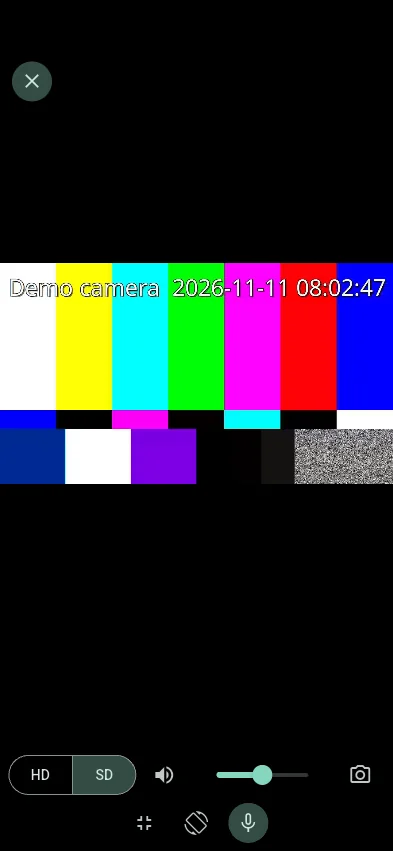
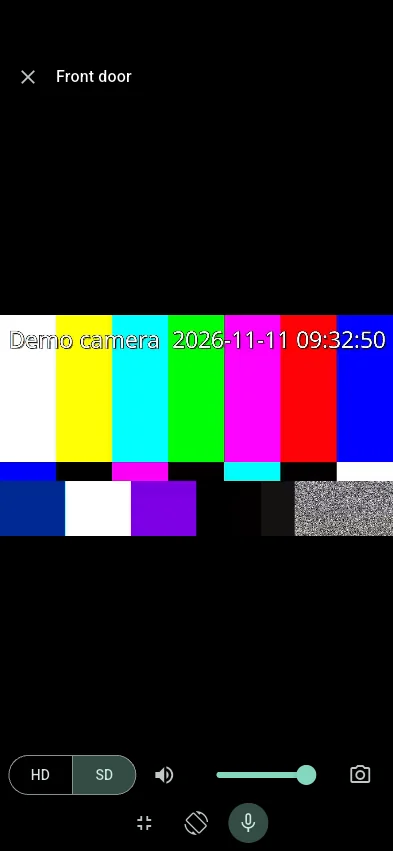
Louder audio (up to 5x), one-press rotate, full-screen controls over the video
- Volume: the slider shows 0-100%; 100% is a 5x gain on the incoming
  camera audio (WebRTC track gain / libmdk), the default, so quiet camera
  mics are as loud as other camera apps. Grid tiles use the same level.
  Saved levels use a new key, so everyone starts at the new default.
- Rotate: a tap always turns the screen to the other orientation (the old
  auto/landscape/portrait cycle had steps that changed nothing, so it
  seemed to need two presses); long-press returns to auto-rotate.
  Verified by driving the installed app on the Android 16 emulator.
- Full screen: the top bar (close, camera name) and the control bar float
  over the video on soft gradients and fade in/out; the picture no longer
  shrinks and grows. Controls stay up while touched.
- Version 0.3.6.

diff --git a/lib/features/live_view/live_view_screen.dart b/lib/features/live_view/live_view_screen.dart
@@ -10,7 +10,6 @@ import 'package:camstation/features/live_view/player_status_overlay.dart';
 import 'package:camstation/features/live_view/thumbnails.dart';
 import 'package:camstation/media/camera_player.dart';
 import 'package:camstation/media/talk_session.dart';
-import 'package:camstation/media/webrtc_player.dart';
 import 'package:flutter/material.dart';
 import 'package:flutter/services.dart';
 import 'package:flutter_riverpod/flutter_riverpod.dart';
@@ -321,11 +320,27 @@ class _LiveViewScreenState extends ConsumerState<LiveViewScreen> {
     });
   }
 
-  Future<void> _cycleOrientation() async {
-    final next = ViewOrientation
-        .values[(_orientation.index + 1) % ViewOrientation.values.length];
-    setState(() => _orientation = next);
-    _remember((v) => v.copyWith(orientation: next));
+  /// Tap: turn the screen to the other orientation (and keep it there).
+  /// Always visibly does something, unlike cycling through modes where one
+  /// step can match the current screen and seem to do nothing.
+  Future<void> _rotate() async {
+    final landscapeNow =
+        MediaQuery.orientationOf(context) == Orientation.landscape;
+    await _setOrientation(
+      landscapeNow ? ViewOrientation.portrait : ViewOrientation.landscape,
+    );
+  }
+
+  /// Long-press: back to following the phone.
+  Future<void> _autoRotate() async {
+    unawaited(HapticFeedback.mediumImpact());
+    await _setOrientation(ViewOrientation.auto);
+    _toast('Auto-rotate on');
+  }
+
+  Future<void> _setOrientation(ViewOrientation o) async {
+    setState(() => _orientation = o);
+    _remember((v) => v.copyWith(orientation: o));
     await _applyOrientation();
   }
 
@@ -377,7 +392,7 @@ class _LiveViewScreenState extends ConsumerState<LiveViewScreen> {
               Positioned(
                 left: 0,
                 right: 0,
-                top: 8,
+                top: _chipTop,
                 child: Center(
                   child: ActionChip(
                     avatar: const Icon(Icons.zoom_out_map, size: 18),
@@ -387,18 +402,22 @@ class _LiveViewScreenState extends ConsumerState<LiveViewScreen> {
                   ),
                 ),
               ),
-            if (_fullscreen && _controlsVisible)
+            // Full screen: controls float over the video on soft gradients
+            // and fade in/out, so the picture never jumps in size.
+            if (_fullscreen) ...[
               Positioned(
-                left: 8,
-                top: 8,
-                child: SafeArea(
-                  child: IconButton.filledTonal(
-                    tooltip: 'Close',
-                    onPressed: _close,
-                    icon: const Icon(Icons.close),
-                  ),
-                ),
+                left: 0,
+                right: 0,
+                top: 0,
+                child: _fade(_controlsVisible ? _topBar(cam) : null),
               ),
+              Positioned(
+                left: 0,
+                right: 0,
+                bottom: 0,
+                child: _fade(_controlsVisible ? _bottomBar(cam) : null),
+              ),
+            ],
             if (_hdStuck)
               Center(
                 child: _HdStuckCard(
@@ -418,15 +437,15 @@ class _LiveViewScreenState extends ConsumerState<LiveViewScreen> {
             if (ref.watch(settingsProvider).showStreamInfo)
               Positioned(
                 right: 8,
-                top: 8,
+                top: _chipTop,
                 child: PlayerInfoBadge(player: _player),
               ),
             if (_talking)
-              const Positioned(
+              Positioned(
                 left: 0,
                 right: 0,
-                bottom: 8,
-                child: Center(
+                top: _chipTop + (_zoomed ? 44 : 0),
+                child: const Center(
                   child: Chip(
                     avatar: Icon(Icons.mic, color: Colors.red),
                     label: Text('Talking'),
@@ -460,14 +479,7 @@ class _LiveViewScreenState extends ConsumerState<LiveViewScreen> {
       body: LayoutBuilder(
         builder: (context, box) {
           final portrait = box.maxHeight > box.maxWidth * 1.2;
-          if (_fullscreen) {
-            return Column(
-              children: [
-                Expanded(child: video),
-                if (_controlsVisible) _controlsRow(cam),
-              ],
-            );
-          }
+          if (_fullscreen) return video;
           if (!portrait) {
             return Column(
               children: [
@@ -519,14 +531,9 @@ class _LiveViewScreenState extends ConsumerState<LiveViewScreen> {
     },
   );
 
-  /// 0–200%: the middle is the camera's own level, above it boosts quiet
-  /// cameras.
-  static const _maxVolume = WebRtcPlayer.maxVolume;
-
   Widget get _volumeSlider => Slider(
-    value: _player.volume.clamp(0, _maxVolume),
-    max: _maxVolume,
-    divisions: (_maxVolume * 20).round(),
+    value: _player.volume,
+    divisions: 20,
     label: '${(_player.volume * 100).round()}%',
     onChanged: (v) {
       unawaited(_player.setVolume(v));
@@ -541,14 +548,22 @@ class _LiveViewScreenState extends ConsumerState<LiveViewScreen> {
     onPressed: _snapshot,
   );
 
-  Widget get _rotateButton => IconButton(
-    tooltip: 'Orientation: ${_orientation.label}',
-    icon: Icon(switch (_orientation) {
-      ViewOrientation.auto => Icons.screen_rotation,
-      ViewOrientation.landscape => Icons.stay_current_landscape,
-      ViewOrientation.portrait => Icons.stay_current_portrait,
-    }),
-    onPressed: _cycleOrientation,
+  /// Tap rotates; long-press returns to auto-rotate. (No tooltip: it would
+  /// pop up on the long-press.)
+  Widget get _rotateButton => Semantics(
+    label: 'Rotate. Long-press for auto-rotate',
+    child: GestureDetector(
+      onLongPress: _autoRotate,
+      child: IconButton(
+        key: const ValueKey('rotate'),
+        icon: Icon(
+          _orientation == ViewOrientation.auto
+              ? Icons.screen_rotation
+              : Icons.screen_lock_rotation,
+        ),
+        onPressed: _rotate,
+      ),
+    ),
   );
 
   Widget get _fullscreenButton => IconButton(
@@ -583,6 +598,78 @@ class _LiveViewScreenState extends ConsumerState<LiveViewScreen> {
       ),
     );
   }
+
+  /// Chips on the video sit below the full-screen top bar.
+  double get _chipTop => _fullscreen ? 72 : 8;
+
+  Widget _fade(Widget? child) => AnimatedSwitcher(
+    duration: const Duration(milliseconds: 200),
+    child: child ?? const SizedBox.shrink(),
+  );
+
+  static const _scrimTop = BoxDecoration(
+    gradient: LinearGradient(
+      begin: Alignment.topCenter,
+      end: Alignment.bottomCenter,
+      colors: [Color(0x99000000), Color(0x00000000)],
+    ),
+  );
+  static const _scrimBottom = BoxDecoration(
+    gradient: LinearGradient(
+      begin: Alignment.bottomCenter,
+      end: Alignment.topCenter,
+      colors: [Color(0xB3000000), Color(0x00000000)],
+    ),
+  );
+
+  /// Full screen top: ✕ and the camera's name.
+  Widget _topBar(Camera cam) => DecoratedBox(
+    key: const ValueKey('topBar'),
+    decoration: _scrimTop,
+    child: SafeArea(
+      bottom: false,
+      child: Padding(
+        padding: const EdgeInsets.fromLTRB(4, 4, 16, 24),
+        child: Row(
+          children: [
+            IconButton(
+              tooltip: 'Close',
+              onPressed: _close,
+              icon: const Icon(Icons.close),
+            ),
+            const SizedBox(width: 4),
+            Expanded(
+              child: Text(
+                cam.name,
+                maxLines: 1,
+                overflow: TextOverflow.ellipsis,
+                // Explicit: this State's context sits above the dark
+                // full-screen theme.
+                style: Theme.of(context).textTheme.titleMedium
+                    ?.copyWith(color: Colors.white),
+              ),
+            ),
+          ],
+        ),
+      ),
+    ),
+  );
+
+  /// Full screen bottom: the usual controls. They stay up while touched
+  /// (e.g. dragging the volume) and hide a few seconds after.
+  Widget _bottomBar(Camera cam) => Listener(
+    key: const ValueKey('bottomBar'),
+    onPointerDown: (_) => _hideControls?.cancel(),
+    onPointerUp: (_) => _showControls(),
+    onPointerCancel: (_) => _showControls(),
+    child: DecoratedBox(
+      decoration: _scrimBottom,
+      child: Padding(
+        padding: const EdgeInsets.only(top: 24),
+        child: _controlsRow(cam),
+      ),
+    ),
+  );
 
   /// One row: landscape, desktop and full screen.
   Widget _controlsRow(Camera cam) => SafeArea(

diff --git a/lib/media/camera_player.dart b/lib/media/camera_player.dart
@@ -75,7 +75,12 @@ class CameraPlayer {
   int _generation = 0;
   StallWatchdog? _watchdog;
   Timer? _retry;
+
+  /// Volume as the user sees it, 0–1 (shown as 0–100%). The backend gets
+  /// up to [maxGain]× that: camera audio (G.711 from a small mic) is quiet,
+  /// and other camera apps boost it a lot.
   double _volume = 1;
+  static const maxGain = 5.0;
   bool _muted = false;
   bool _disposed = false;
 
@@ -174,7 +179,7 @@ class CameraPlayer {
         await b.dispose(); // superseded while connecting
         return;
       }
-      await b.setVolume(_volume);
+      await b.setVolume(_volume * maxGain);
       await b.setMuted(muted: _muted || _ducked);
       // Closed or superseded during those awaits: never install a backend
       // nobody will dispose (its sound would play on with no screen).
@@ -231,9 +236,10 @@ class CameraPlayer {
     if (old != null && !identical(old, next)) await old.dispose();
   }
 
+  /// [v] is the user's level, 0–1.
   Future<void> setVolume(double v) async {
-    _volume = v;
-    await backend.value?.setVolume(v);
+    _volume = v.clamp(0, 1);
+    await backend.value?.setVolume(_volume * maxGain);
   }
 
   Future<void> setMuted({required bool muted}) async {

diff --git a/lib/app/providers.dart b/lib/app/providers.dart
@@ -308,7 +308,9 @@ class ViewState {
         .where((q) => q.name == j['quality'])
         .firstOrNull,
     muted: j['muted'] as bool?,
-    volume: (j['volume'] as num?)?.toDouble(),
+    // 'level' (0–1 of the slider). Older builds stored a raw gain under
+    // 'volume'; that is ignored so everyone starts at the new default.
+    volume: (j['level'] as num?)?.toDouble(),
     orientation: ViewOrientation.values
         .where((o) => o.name == j['orientation'])
         .firstOrNull,
@@ -338,7 +340,7 @@ class ViewState {
   Map<String, Object?> toJson() => {
     if (quality != null) 'quality': quality!.name,
     if (muted != null) 'muted': muted,
-    if (volume != null) 'volume': volume,
+    if (volume != null) 'level': volume,
     if (orientation != null) 'orientation': orientation!.name,
     if (fullscreen != null) 'fullscreen': fullscreen,
   };

diff --git a/lib/media/webrtc_player.dart b/lib/media/webrtc_player.dart
@@ -31,8 +31,9 @@ class WebRtcPlayer implements PlayerBackend {
   @override
   PlayerMode get mode => PlayerMode.webrtc;
 
-  /// Highest volume [setVolume] accepts (1 = as received).
-  static const maxVolume = 2.0;
+  /// Highest gain [setVolume] accepts (1 = as received; libwebrtc allows
+  /// up to 10 and saturates instead of wrapping).
+  static const maxVolume = 5.0;
 
   /// Call once at start-up, before any connection. flutter_webrtc on
   /// Android defaults to *voice call* audio: the quieter call volume and
@@ -243,8 +244,7 @@ class WebRtcPlayer implements PlayerBackend {
 
   @override
   Future<void> setVolume(double volume) async {
-    // WebRTC track gain goes above 1: up to 2 = a 2× boost for quiet
-    // cameras.
+    // Track gain above 1 boosts quiet cameras.
     _volume = volume.clamp(0, maxVolume);
     await _applyAudio();
   }

diff --git a/lib/media/rtsp_player.dart b/lib/media/rtsp_player.dart
@@ -116,12 +116,12 @@ class RtspPlayer implements PlayerBackend {
 
   @override
   Future<void> setVolume(double volume) async {
-    _volume = volume.clamp(0, 2);
+    _volume = volume.clamp(0, 5);
     await _applyVolume();
   }
 
   /// Straight to fvp: video_player caps volume at 1, but libmdk amplifies
-  /// above it (up to 2 = a 2× boost for quiet cameras).
+  /// above it (up to 5× for quiet cameras).
   Future<void> _applyVolume() async {
     final c = _c;
     if (c == null || !c.value.isInitialized) return;

diff --git a/docs/USER_GUIDE.md b/docs/USER_GUIDE.md
@@ -24,13 +24,15 @@ Networks of cameras you have added are always included in later scans.
 
 - Tap a camera to open it. **✕** takes you back to the list.
 - **HD / SD:** the full-quality stream, or a lighter one (good on mobile data or older phones).
-- **Volume:** mute, or set the volume. Quiet camera? Slide past the middle to boost it up to
-  200%.
+- **Volume:** mute, or set the volume. Camera microphones are quiet, so 100% boosts them a
+  lot; turn it down if a camera sounds distorted.
 - **Snapshot:** saves a picture. On Android it goes to the app's folder; on desktop, to
   Downloads/CamStation.
-- **Full screen:** double-tap the video or use the full-screen button. Tap the video to show
-  or hide the controls and the **✕**; they hide by themselves after a few seconds.
-- **Rotate** (phones): auto-rotate, landscape or portrait.
+- **Full screen:** double-tap the video or use the full-screen button. The controls float over
+  the picture; tap the video to show or hide them and the **✕**. They hide by themselves after
+  a few seconds.
+- **Rotate** (phones): tap to turn the picture sideways (or back). Long-press to follow the
+  phone again (auto-rotate).
 - **Pinch** to zoom in. Tap **Reset zoom** to go back.
 - **Swipe** left or right to move to the next camera.
 - **Talk:** press and hold the **microphone** to speak through the camera's speaker; it turns
